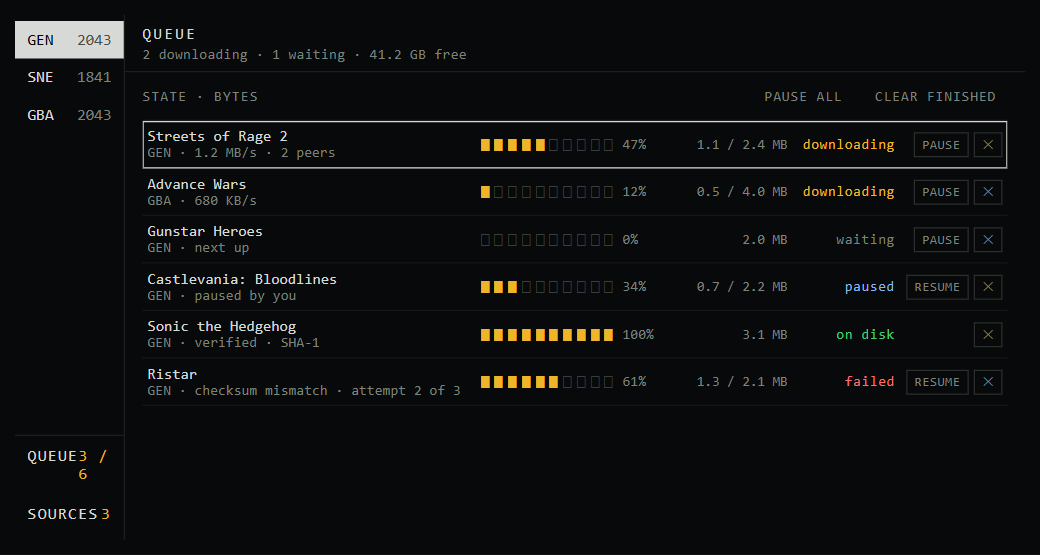
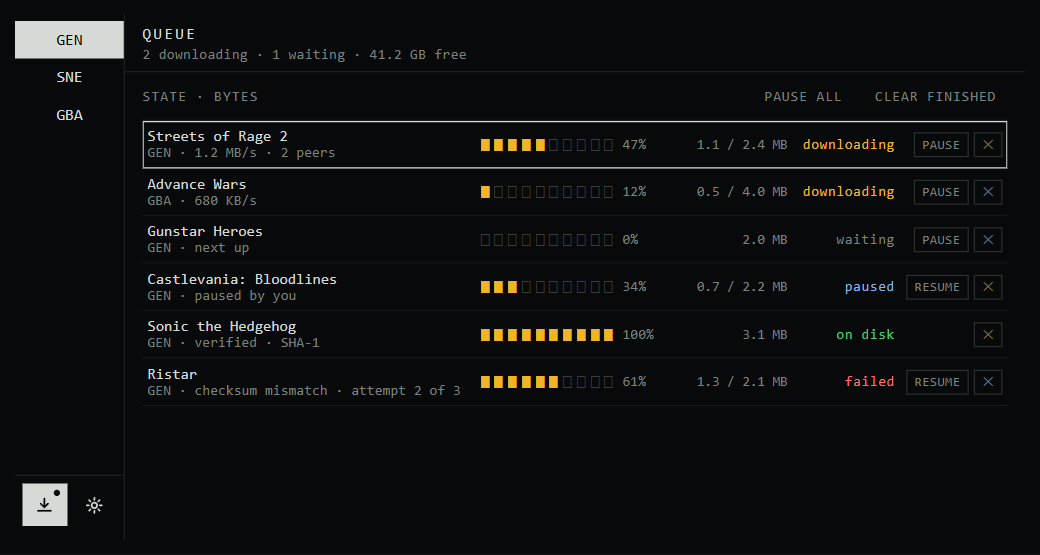
design: rail is systems only; queue and settings in its footer
- System entries carry the name alone; the count moved out of the rail.
- The rail footer holds two icon buttons side by side: download opens the
  queue and carries an amber dot while transfers are active; the gear opens
  Sources. Both mark themselves when their screen is open.
- Browse state is terse again, as in the direction sheet: ok / run / que /
  err, plus pau for a held transfer, coloured green / amber / grey / red.
  The queue screen still spells each transfer out in full.
- Download button gets real horizontal padding and centres its label. The
  button reset was setting text-align:left at higher specificity than the
  component rule, so the label sat flush to the border with no inset.

Verified at 832x444: no overflow on any screen, both footer buttons 36x34,
state colours matching the sheet.

diff --git a/design/ui.html b/design/ui.html
@@ -49,26 +49,32 @@
     font-size:12.5px;font-variant-numeric:tabular-nums;
     outline:1px solid #2a2b2e;
   }
-  .app button{font:inherit;color:inherit;background:none;border:0;cursor:pointer;text-align:left}
+  .app button{font:inherit;color:inherit;background:none;border:0;cursor:pointer}
   .app :focus{outline:none}
   .app ::placeholder{color:#6a6f69}
   .app .is-focused{outline:1px solid var(--fg);outline-offset:-1px}
 
   .rail{border-right:1px solid var(--line);padding:5px 0;display:flex;flex-direction:column;min-height:0}
-  .sys{padding:8px 10px;display:flex;justify-content:space-between;font-size:12px;width:100%}
-  .sys .n{color:var(--mute)}
+  .sys{padding:8px 10px;font-size:12px;width:100%}
   .sys.on{background:var(--fg);color:#08090a}
-  .sys.on .n{color:#4a4d48}
   .systems{flex:1;min-height:0;overflow:hidden}
-  .railfoot{margin-top:auto;border-top:1px solid var(--line)}
-  .railbtn{display:flex;justify-content:space-between;width:100%;padding:9px 10px;font-size:11px;letter-spacing:.1em;text-transform:uppercase;color:var(--mute)}
-  .railbtn:hover{color:var(--fg)}
-  .railbtn b{color:var(--amber);font-weight:400}
+  .railfoot{margin-top:auto;border-top:1px solid var(--line);padding:6px;display:flex;gap:4px}
+  .railbtn{
+    flex:1;position:relative;display:grid;place-items:center;height:34px;
+    border:1px solid transparent;color:var(--mute);
+  }
+  .railbtn:hover{color:var(--fg);border-color:#2a2e2c}
+  .railbtn.on{background:var(--fg);color:#08090a}
+  .railbtn svg{width:15px;height:15px;stroke:currentColor;fill:none;stroke-width:1.5;stroke-linecap:round;stroke-linejoin:round}
+  .railbtn .dot{position:absolute;top:5px;right:6px;width:5px;height:5px;border-radius:50%;background:var(--amber)}
+  .railbtn.on .dot{background:#08090a}
 
   .main{display:flex;flex-direction:column;min-height:0;overflow:hidden}
   .bar{height:46px;padding:0 14px;display:flex;align-items:center;justify-content:space-between;border-bottom:1px solid var(--line);flex:none;gap:12px}
   h1{margin:0;font-size:12px;letter-spacing:.18em;text-transform:uppercase;font-weight:500}
   .meta{font-size:11px;color:var(--mute);letter-spacing:.04em;margin-top:3px}
+  .link{color:var(--amber);border-bottom:1px dotted #6b5a2a;padding-bottom:1px}
+  .link:hover{color:var(--fg)}
   .q{background:#0e1011;border:1px solid #222526;color:var(--fg);font:inherit;font-size:12px;padding:5px 8px;width:196px;outline:none}
   .q::placeholder{color:#8b908a}
   .q:focus{border-color:var(--fg)}
@@ -83,7 +89,7 @@
 
   .body{display:grid;grid-template-columns:1fr var(--detail);min-height:0;flex:1;overflow:hidden}
   .list{overflow:hidden;display:flex;flex-direction:column;min-height:0}
-  .cols,.row{display:grid;grid-template-columns:1fr 52px 104px;gap:6px;align-items:center;padding:0 14px}
+  .cols,.row{display:grid;grid-template-columns:1fr 52px 58px;gap:8px;align-items:center;padding:0 14px}
   .cols{height:22px;font-size:11px;letter-spacing:.1em;text-transform:uppercase;color:var(--mute);border-bottom:1px solid var(--line);background:#0b0c0d;flex:none}
   .cols b{font-weight:400}
   .cols b:nth-child(n+2){text-align:right}
@@ -138,7 +144,7 @@
        display:-webkit-box;-webkit-line-clamp:4;-webkit-box-orient:vertical;
        flex:1 1 auto;min-height:0}
 
-  .btn{margin-top:10px;border:1px solid var(--fg);text-align:center;padding:8px 0;font-size:12px;letter-spacing:.14em;text-transform:uppercase;flex:none}
+  .btn{margin-top:10px;border:1px solid var(--fg);text-align:center;padding:8px 16px;font-size:12px;letter-spacing:.14em;text-transform:uppercase;flex:none}
   .btn:hover{background:#141718}
   .btn.primary{background:var(--fg);color:#08090a}
   .btn.primary:hover{background:#eef0ec}
@@ -325,13 +331,18 @@
   };
   const F = { zone: "list", index: 0 };
 
+  // Browse stays terse: the word is read at a glance down a column, and the
+  // queue screen is where the same transfer explains itself in full.
   const STATE_WORD = {
-    run: (g) => "downloading " + g.pct + "%",
-    que: () => "waiting",
-    hold: () => "paused",
-    done: () => "on disk",
-    fail: () => "failed",
+    run: () => "run",
+    que: () => "que",
+    hold: () => "pau",
+    done: () => "ok",
+    fail: () => "err",
   };
+
+  const GEAR = '<svg viewBox="0 0 16 16"><circle cx="8" cy="8" r="2.3"/><path d="M8 1.6v1.7M8 12.7v1.7M1.6 8h1.7M12.7 8h1.7M3.5 3.5l1.2 1.2M11.3 11.3l1.2 1.2M12.5 3.5l-1.2 1.2M4.7 11.3l-1.2 1.2"/></svg>';
+  const DOWNLOAD = '<svg viewBox="0 0 16 16"><path d="M8 2.2v7.4M4.9 6.6L8 9.7l3.1-3.1"/><path d="M2.6 12.6h10.8"/></svg>';
 
   const esc = (s) => String(s).replace(/[&<>"]/g, (c) => ({ "&": "&amp;", "<": "&lt;", ">": "&gt;", '"': "&quot;" }[c]));
   const games = () => GAMES[S.system] || [];
@@ -362,8 +373,12 @@
       <nav class="rail">
         <div class="systems">${railSystems()}</div>
         <div class="railfoot">
-          <button class="railbtn" data-go="queue" data-zone="rail"><span>queue</span><b>${activeCount()} / ${QUEUE.length}</b></button>
-          <button class="railbtn" data-go="sources" data-zone="rail"><span>sources</span><b>${S.enabled.length}</b></button>
+          <button class="railbtn ${S.screen === "queue" ? "on" : ""}" data-go="queue" data-zone="rail" aria-label="Queue" title="Queue">
+            ${DOWNLOAD}${activeCount() ? '<span class="dot"></span>' : ""}
+          </button>
+          <button class="railbtn ${S.screen === "sources" ? "on" : ""}" data-go="sources" data-zone="rail" aria-label="Settings" title="Settings">
+            ${GEAR}
+          </button>
         </div>
       </nav>
       <div class="main">${S.screen === "queue" ? queueScreen() : S.screen === "sources" ? sourcesScreen() : browseScreen()}</div>`;
@@ -374,7 +389,7 @@
     if (!list.length) return `<div class="empty" style="padding:12px 10px">no systems enabled</div>`;
     return list.map((s) => `
       <button class="sys ${s.id === S.system ? "on" : ""}" data-sys="${s.id}" data-zone="rail">
-        <span>${s.code}</span><span class="n">${s.count}</span>
+        <span>${s.code}</span>
       </button>`).join("");
   }
 
